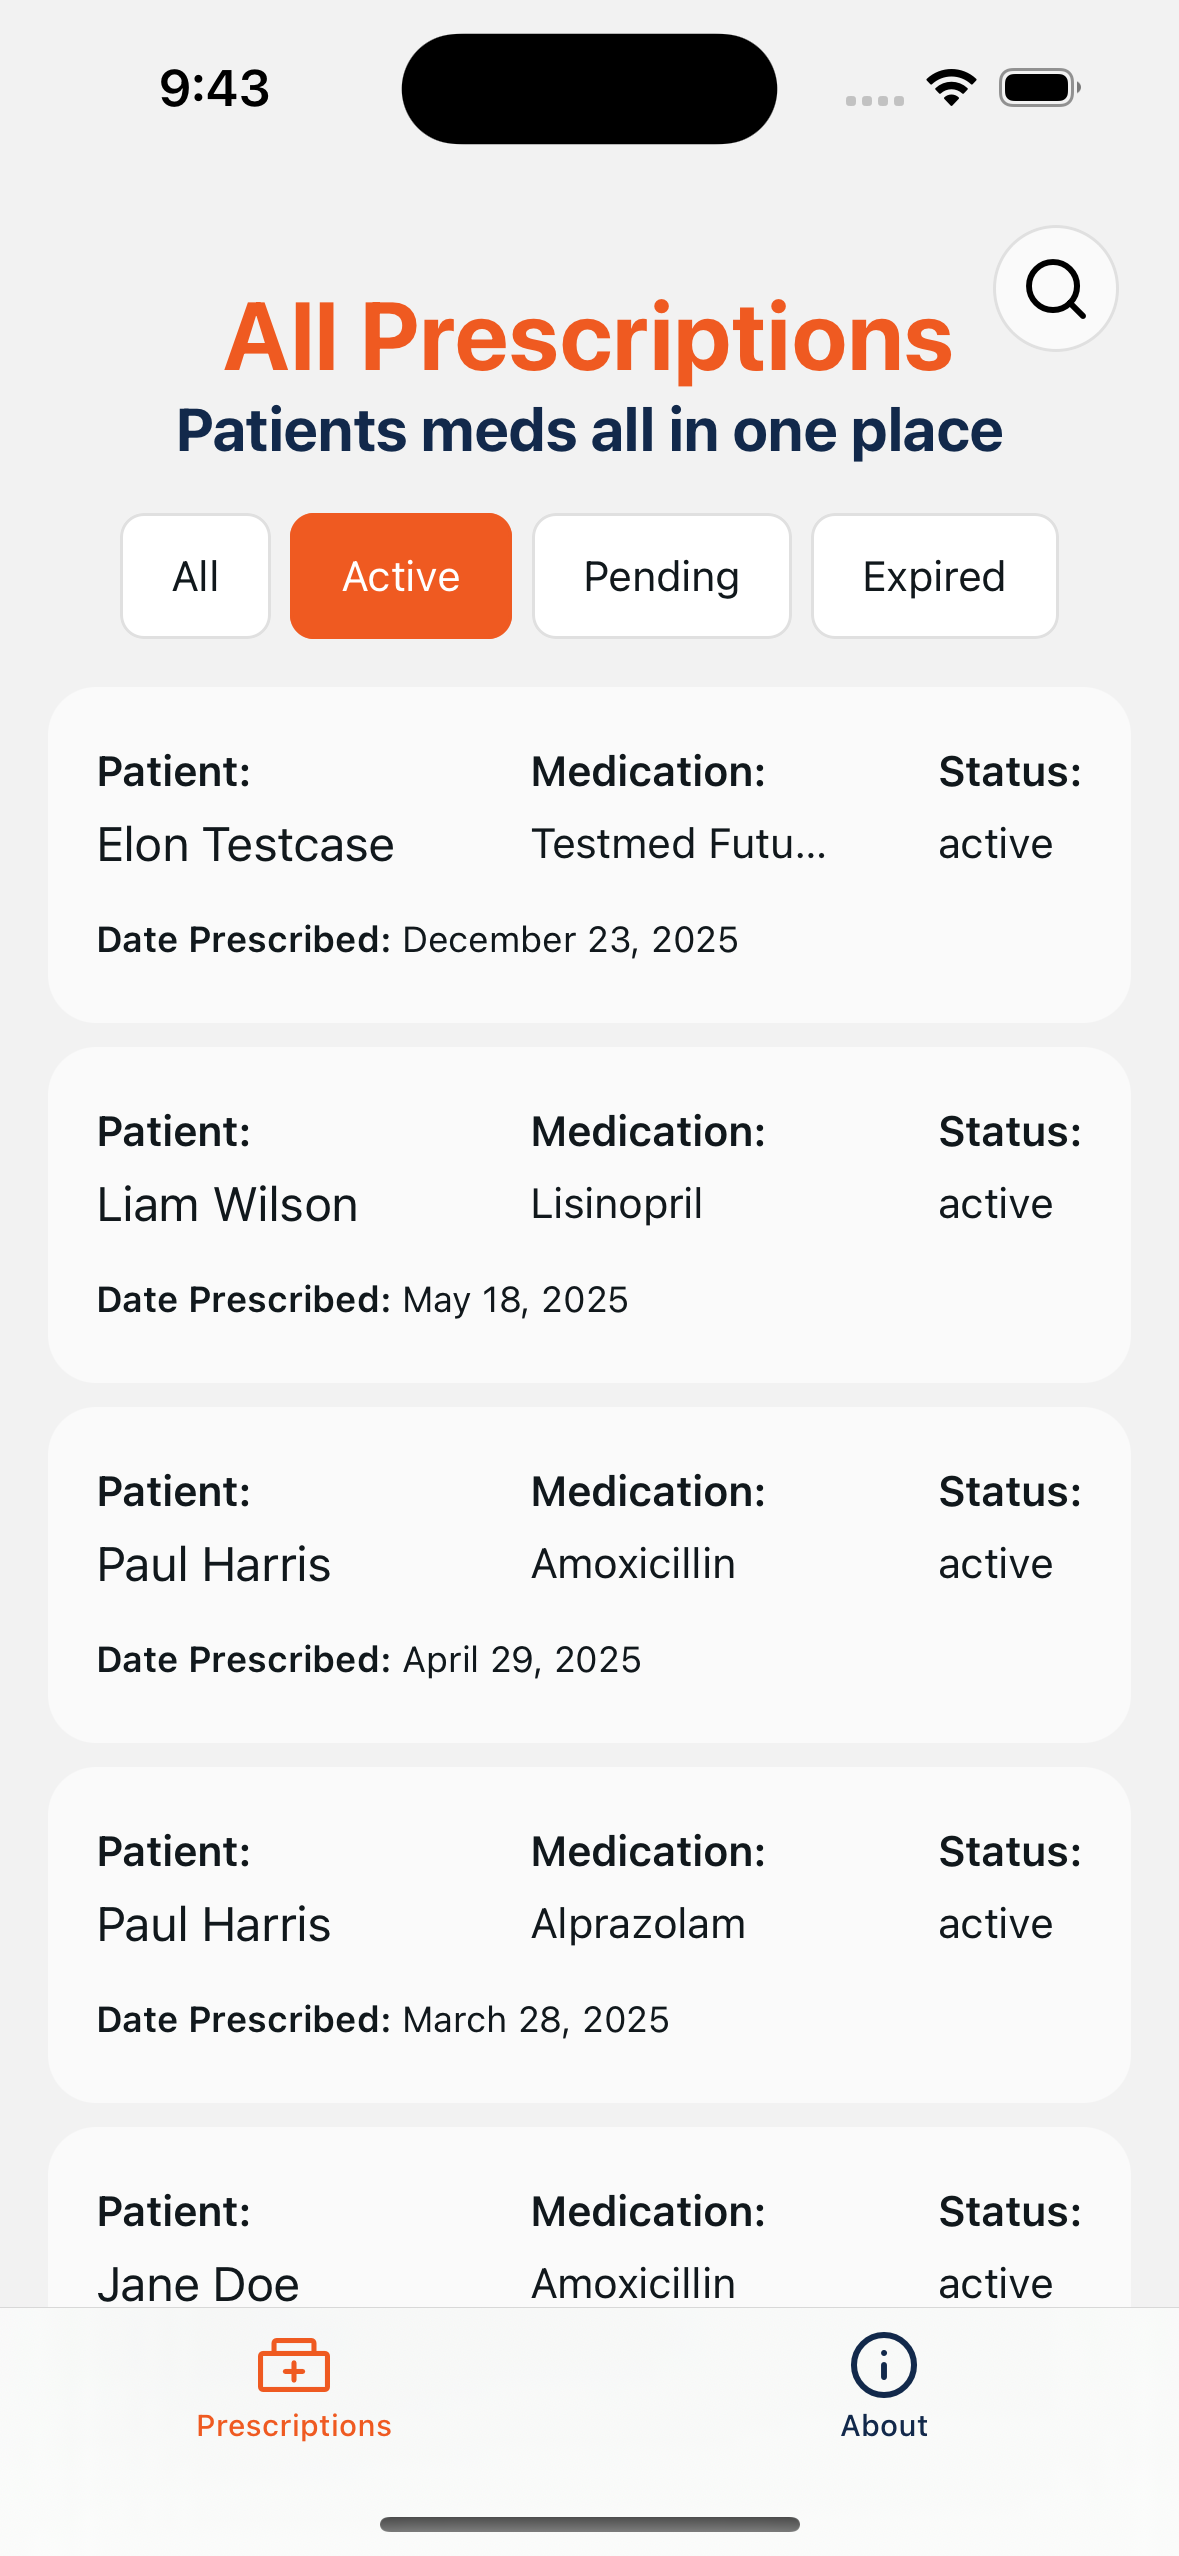
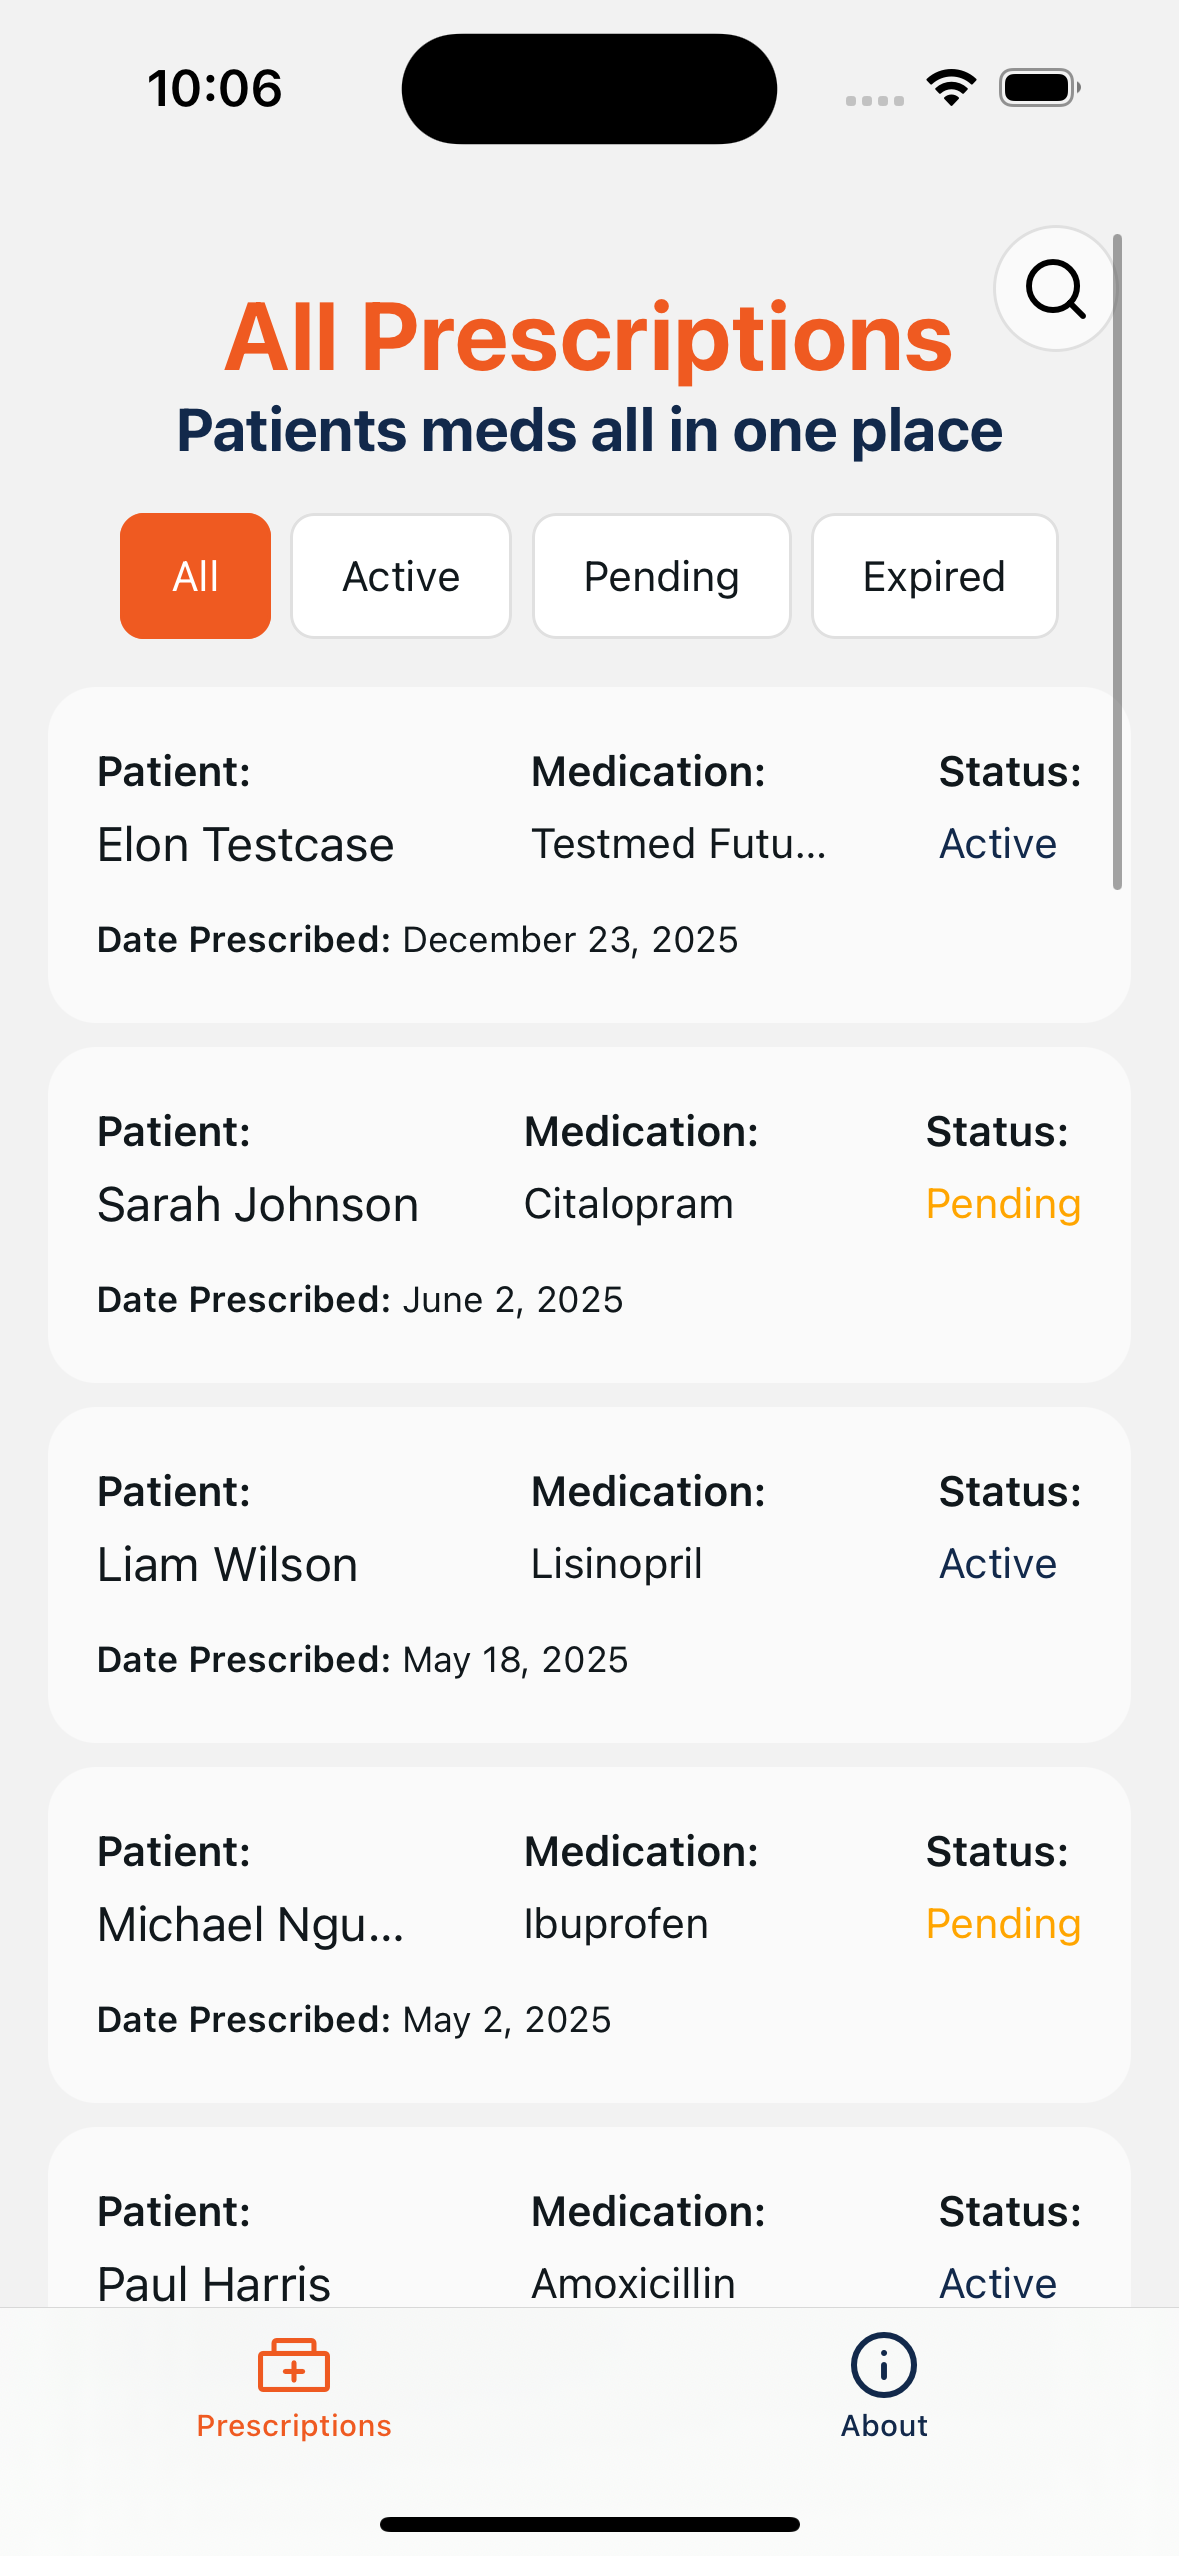
Improve visuals & readme

diff --git a/src/app/(tabs)/about.tsx b/src/app/(tabs)/about.tsx
@@ -1,5 +1,6 @@
 import ParallaxScrollView from '@/components/ParallaxScrollView';
 import { Text } from '@/components/Text';
+import { Colors } from '@/config';
 import { Sizes } from '@/config/size';
 import { Image } from 'expo-image';
 import { StyleSheet, View } from 'react-native';
@@ -15,28 +16,39 @@ export default function TabTwoScreen() {
             style={{
               alignSelf: 'center',
               justifyContent: 'center',
-              paddingTop: 150,
-              bottom: -50,
+              paddingTop: 90,
+              bottom: -80,
               width: '100%',
             }}
           />
         </View>
       }
     >
-      <View style={styles.titleContainer}>
-        <Text type="title">About</Text>
+      <View style={styles.container}>
+        <View style={styles.titleContainer}>
+          <Text type="title">About</Text>
+        </View>
+        <Text>
+          This app contains a list of prescriptions and their details.
+        </Text>
+        <Text>
+          The app is built with React Native and Expo, and uses mock data from
+          the Vitura API to fetch the prescriptions.
+        </Text>
+        <Text>A sample of how I may strucutre components and architecture</Text>
       </View>
-      <Text>This app contains a list of prescriptions and their details.</Text>
-      <Text>
-        The app is built with React Native and Expo, and uses mock data from the
-        Vitura API to fetch the prescriptions.
-      </Text>
-      <Text>A sample of how I may strucutre components and architecture</Text>
     </ParallaxScrollView>
   );
 }
 
 const styles = StyleSheet.create({
+  container: {
+    width: '100%',
+    flex: 1,
+    backgroundColor: Colors.light.light,
+    padding: Sizes.spacing.md,
+    borderRadius: Sizes.radius.md,
+  },
   headerImage: {
     color: '#808080',
     bottom: -40,

diff --git a/src/components/feature/ListItem.tsx b/src/components/feature/ListItem.tsx
@@ -1,7 +1,7 @@
 import { Colors } from '@/config';
 import { Sizes } from '@/config/size';
 import { Prescription } from '@/types';
-import { formatDate } from '@/utils';
+import { formatDate, formattedStatus, statusToColor } from '@/utils';
 import { router } from 'expo-router';
 import { Pressable, StyleSheet, View } from 'react-native';
 import { Text } from '../Text';
@@ -42,7 +42,16 @@ export const ListItem = ({ item }: { item: Prescription }) => {
           <Text style={styles.textSmall} type="defaultSemiBold">
             Status:
           </Text>
-          <Text style={styles.textSmall}>{status}</Text>
+          <Text
+            style={[
+              styles.textSmall,
+              {
+                color: statusToColor(status),
+              },
+            ]}
+          >
+            {formattedStatus(status)}
+          </Text>
         </View>
       </View>
       <View style={styles.dateContainer}>

diff --git a/src/app/prescription/[prescription_id].tsx b/src/app/prescription/[prescription_id].tsx
@@ -2,7 +2,7 @@ import { Text } from '@/components/Text';
 import { Colors } from '@/config';
 import { Sizes } from '@/config/size';
 import { usePrescription } from '@/hooks/usePrescription';
-import { formatDate } from '@/utils';
+import { formatDate, formattedStatus, statusToColor } from '@/utils';
 import { useLocalSearchParams } from 'expo-router';
 import { StyleSheet, View } from 'react-native';
 
@@ -43,7 +43,11 @@ const PrescriptionScreen = () => {
       </View>
       <View style={styles.prescriptionRow}>
         <Text type="defaultSemiBold">Status:</Text>
-        <Text>{currentPrescription?.status}</Text>
+        <Text
+          style={{ color: statusToColor(currentPrescription?.status || '') }}
+        >
+          {formattedStatus(currentPrescription?.status || '')}
+        </Text>
       </View>
     </View>
   );

diff --git a/src/utils/index.ts b/src/utils/index.ts
@@ -1,4 +1,5 @@
-import { Prescription } from '@/types';
+import { Colors } from '@/config';
+import { Prescription, PrescriptionStatus } from '@/types';
 
 export const formatDate = (date: string | undefined) => {
   if (!date) return '';
@@ -16,4 +17,20 @@ export const sortPrescriptions = (prescriptions: Prescription[]) => {
       new Date(a.datePrescribed).getTime()
     );
   });
+};
+
+export const statusToColor = (status: PrescriptionStatus | '') => {
+  switch (status) {
+    case 'active':
+      return Colors.light.secondary;
+    case 'expired':
+      return Colors.light.error;
+    case 'pending':
+      return Colors.light.warning;
+  }
+};
+
+// Title case the status
+export const formattedStatus = (status: string) => {
+  return status?.charAt(0).toUpperCase() + status?.slice(1);
 };

diff --git a/src/config/colors.ts b/src/config/colors.ts
@@ -19,6 +19,8 @@ export const Colors = {
     secondary: '#12294b',
     dark: '#151718',
     border: '#e0e0e0',
+    error: '#ff0000',
+    warning: '#ffa500',
   },
   dark: {
     text: '#ECEDEE',
@@ -32,5 +34,7 @@ export const Colors = {
     secondary: '#12294b',
     dark: '#151718',
     border: '#e0e0e0',
+    error: '#ff0000',
+    warning: '#ffa500',
   },
 };

diff --git a/src/app/(tabs)/_layout.tsx b/src/app/(tabs)/_layout.tsx
@@ -22,7 +22,6 @@ export default function TabLayout() {
         tabBarBackground: TabBarBackground,
         tabBarStyle: Platform.select({
           ios: {
-            // Use a transparent background on iOS to show the blur effect
             position: 'absolute',
           },
           default: {},

diff --git a/src/app/(tabs)/index.tsx b/src/app/(tabs)/index.tsx
@@ -23,8 +23,6 @@ export default function HomeScreen() {
     prescriptions,
   } = usePrescriptions() || {};
 
-  console.log('DATA: prescriptions', prescriptions);
-
   const renderItem = ({ item }: { item: Prescription }) => {
     return <ListItem item={item} />;
   };

diff --git a/README.md b/README.md
@@ -33,6 +33,8 @@ Further time permitted this would expand across the app components
 - List loading state / error / empty state
 - Status filtering
 - Search for a patient
+- App components within features directory (top level components are more generic bootstrap components)
+
 
 ## Assumptions
 - Tested within iOS sim only on development
